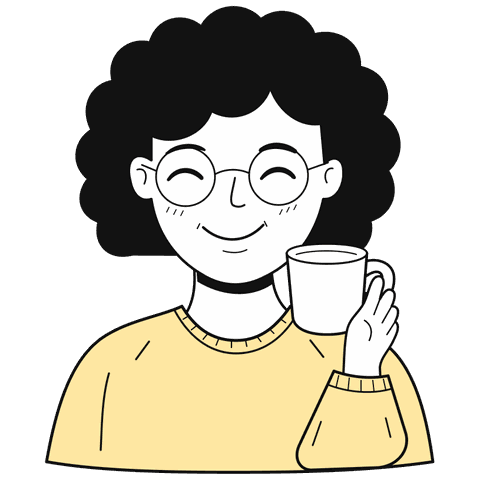
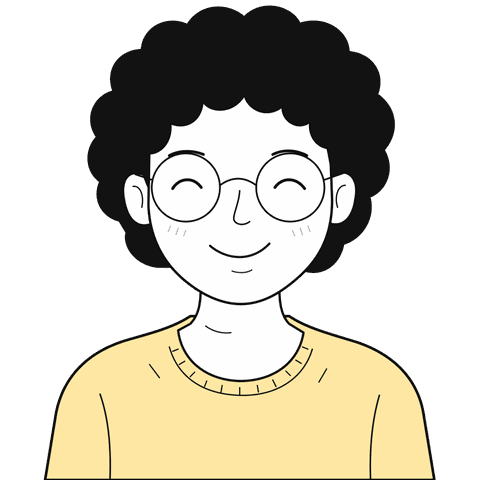
People v3: no hands or legs — founder behind a laptop, bust portraits
Claude-Session: https://claude.ai/code/session_01Ng4fqsgyTm7CW11PvFsUBV

diff --git a/styles.css b/styles.css
@@ -689,5 +689,5 @@ html { scroll-padding-top: 80px; }
 }
 
 /* ---------- people v2 ---------- */
-.founder { width: 250px; bottom: 6px; }
+.founder { width: 310px; bottom: 28px; }
 .review-row figcaption img { width: 80px; height: 80px; padding: 6px 6px 0; border-radius: 50%; background: var(--white); object-fit: contain; object-position: bottom; overflow: hidden; }
